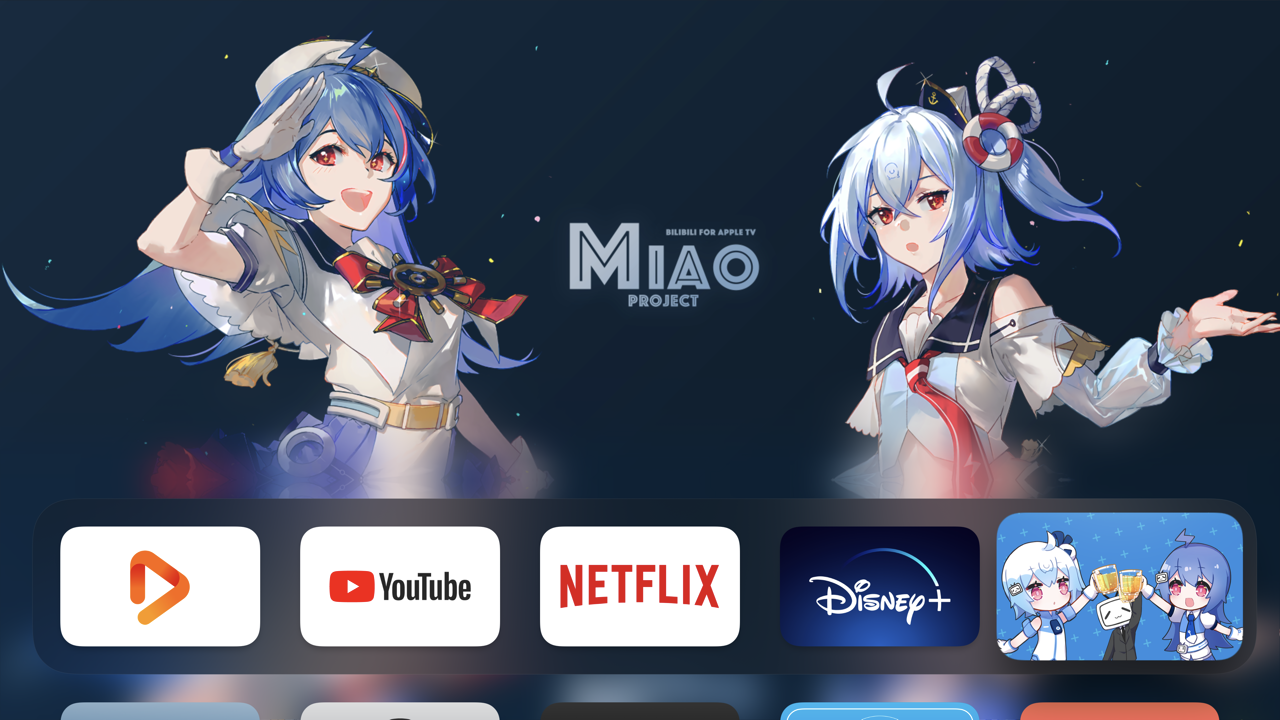
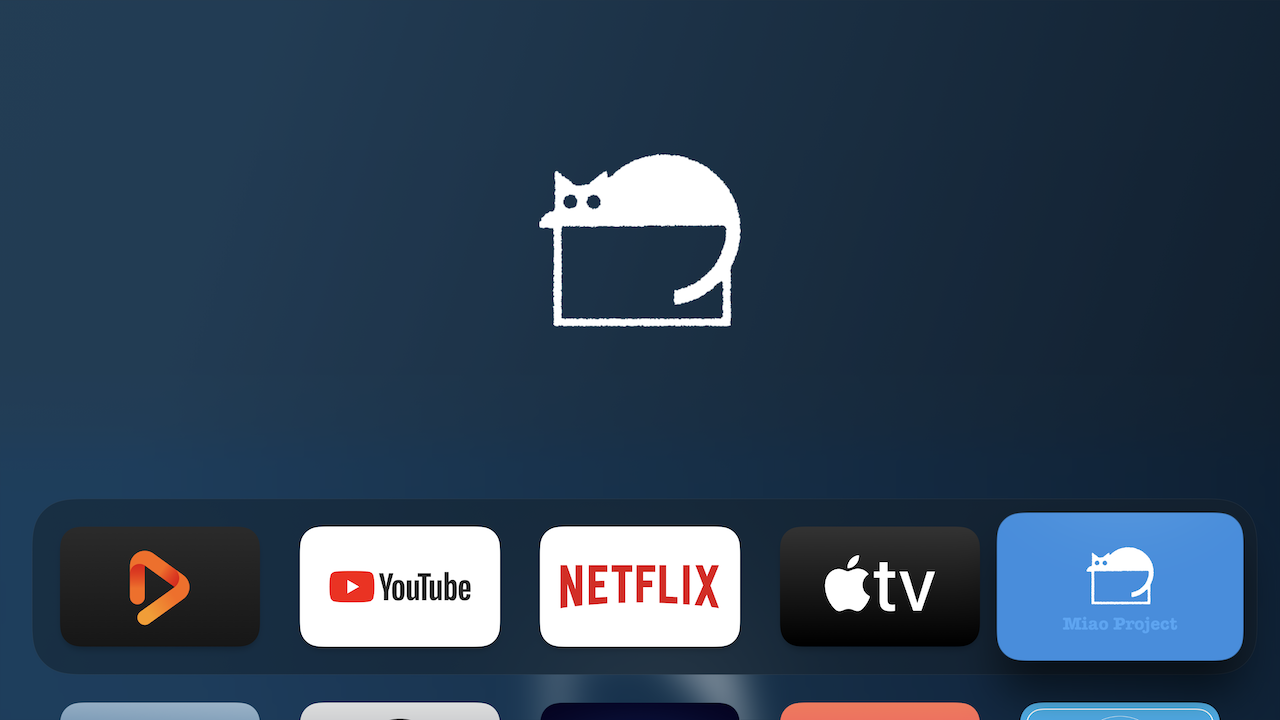
Update README.md

diff --git a/HOW-TO-USE.md b/HOW-TO-USE.md
@@ -1,6 +1,5 @@
 ## 使用说明
 - 使用前，请仔细阅读应用开始的**使用提示**
-- **本项目仅用于学习研究，如果您来自某付费渠道，请及时退款**
 - **本地连接部分功能不完善，请勿使用**
 
 ## 操作说明
@@ -14,9 +13,9 @@
 >> A: 弹幕可以在设置页面进行默认值设置，倍速播放只支持 tvOS 15，在播放页面设置
 
 > Q: 「我的追番」入口显示
->> A: 如果你没有登录，或者在B站**没有追过番**，是不会显示我的追番这一行的，自然也就看不到了追剧的入口，这个之后会开放一个单独的入口出来
+>> A: 「番剧」-「查看全部」/「我的」-「我的追番」
 
-> Q: 登陆过程中报错「无法找到使用指定主机名的服务器」
+> Q: 网络请求报错「无法找到使用指定主机名的服务器」
 >> A: 更换DNS到「8.8.8.8」「8.8.4.4」「114.114.114.114」「223.5.5.5」
 
 ## 如果出现频繁黑屏Loading，无法正常播放，请尝试下列方法

diff --git a/README.md b/README.md
@@ -2,9 +2,6 @@
 ![Banner](https://raw.githubusercontent.com/Paladinfeng/MiaoProject/master/images/Miao-banner.png)
 > 本仓库为收集 Miao Project 在使用过程中遇到的问题
 
-## Miao Project 为 Bilibili 在 tvOS 上的第三方的客户端
-当初买 Apple TV 主要是看 Youtube 和 Netflix，想看 B 站我也没找到其他的渠道，如果要看 B 站就只能切到 Android TV 那边，后来 Android TV 上弹幕版本的 B 站也不更新了，也没办法选 4K 的画质，最后迫于无奈只能自己写一个😭，真正的用爱发电了
-
 ### 加入测试（请按照使用说明中的方法正确激活）
 - **注意：请不要因为本项目购入 Apple TV**
 - **[TestFlight (Update: 2021/11/12)](https://testflight.apple.com/join/MuMvoZyv)**

diff --git a/Changelog.md b/Changelog.md
@@ -1,3 +1,9 @@
+# Miao Project Build 69 Update Notes
+- 更新应用图标和置顶图
+
+# Miao Project Build 68 Update Notes
+- 修复：某些用户硬币数超过上限导致崩溃
+
 # Miao Project Build 67 Update Notes
 - 新增：番剧详情页显示剧集是否需要会员等额外信息
 - 新增：视频详情页，相关推荐，提供多种弹出方式
